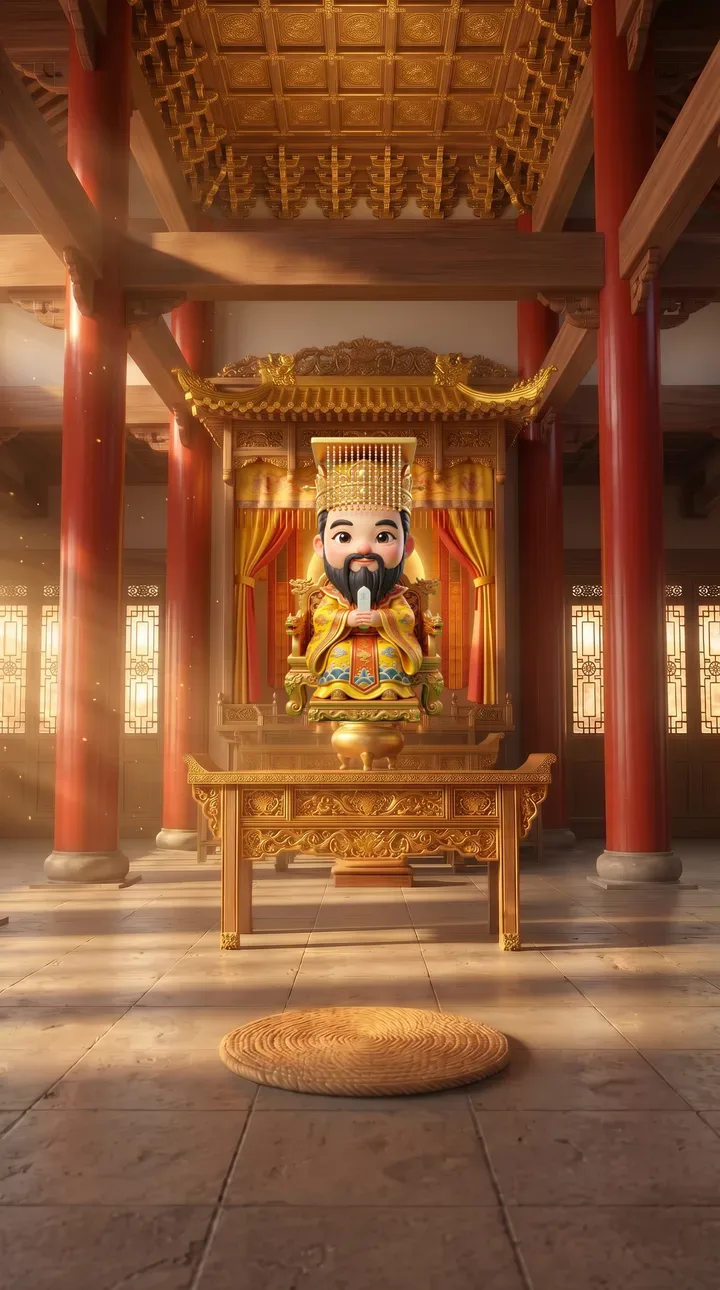
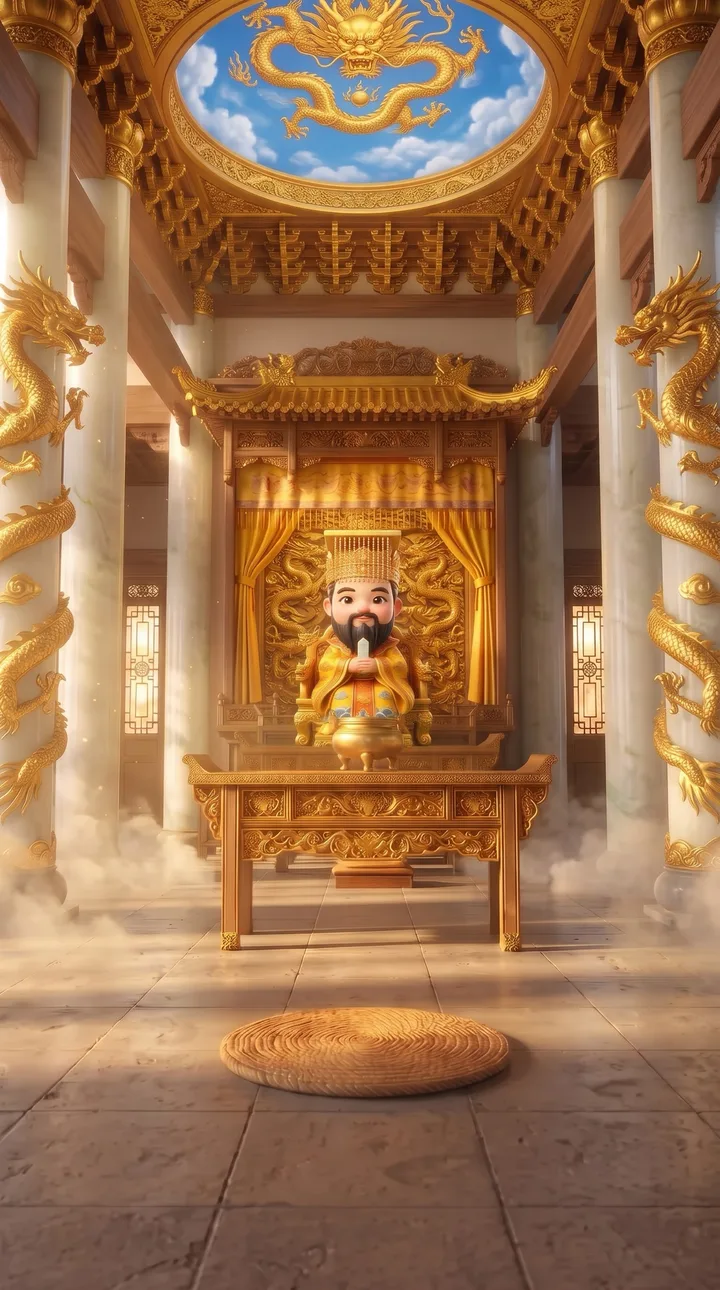
天公殿換上新圖：平日／天公生背景、天公爐、天公金、疏文
香改畫在天公爐後面，看起來插在爐裡；拿掉爐下的木座。

Claude-Session: https://claude.ai/code/session_019aNbR4masPhNK8L9wt7yJP

diff --git a/src/tiangong.js b/src/tiangong.js
@@ -102,16 +102,15 @@ export const TG_SVG = (bg) => `
     ${[0, 1, 2, 3, 4, 5, 6].map((i) => `<path d="M${i * 60 - 30} 645 L${180 + (i - 3) * 22} 520" stroke="#6A5444" stroke-width="1.2" opacity=".5"/>`).join('')}
     <rect x="0" y="500" width="360" height="8" fill="#9A7A60"/>${[20, 70, 120, 240, 290, 340].map((x) => `<rect x="${x - 4}" y="480" width="8" height="40" fill="#A88A70"/>`).join('')}
     <rect x="0" y="480" width="360" height="5" fill="#B89A80"/>
-    <!-- 天公爐（香插進爐口） -->
-    <ellipse cx="${BURN[0]}" cy="${BURN[1] + 80}" rx="86" ry="10" fill="url(#kContact)"/>
-    <rect x="${BURN[0] - 44}" y="${BURN[1] + 66}" width="88" height="22" rx="4" fill="#5A2A1E"/>
-    <g id="kBurner" transform="translate(${BURN[0]} ${BURN[1] + 66})">
-      ${art('burner') ? `<image href="${art('burner')}" x="-90" y="-150" width="180" height="150"/>` : `<g transform="translate(0 -70)">${BURNER_SVG}</g>`}
-    </g>
+    <!-- 天公爐（香插進爐口；香畫在爐子後面，看起來插在爐裡） -->
     <g id="kPlanted" style="display:none">
-      ${[-10, 0, 10].map((dx, i) => `<line x1="${BURN[0] + dx}" y1="${BURN[1] - 6}" x2="${BURN[0] + dx * 2.2}" y2="${BURN[1] - 66}" stroke="#7A3A1A" stroke-width="2.4" stroke-linecap="round"/><circle cx="${BURN[0] + dx * 2.2}" cy="${BURN[1] - 66}" r="2.2" fill="#FF7A3A"/>`).join('')}
+      ${[-10, 0, 10].map((dx) => `<line x1="${BURN[0] + dx}" y1="${BURN[1] - 30}" x2="${BURN[0] + dx * 2.2}" y2="${BURN[1] - 100}" stroke="#7A3A1A" stroke-width="2.4" stroke-linecap="round"/><circle cx="${BURN[0] + dx * 2.2}" cy="${BURN[1] - 100}" r="2.2" fill="#FF7A3A"/>`).join('')}
     </g>
-    <circle id="kRing" cx="${BURN[0]}" cy="${BURN[1] - 6}" r="30" fill="none" stroke="#FFE08A" stroke-width="2.4" stroke-dasharray="6 4" opacity="0"/>
+    <ellipse cx="${BURN[0]}" cy="${BURN[1] + 64}" rx="80" ry="9" fill="url(#kContact)"/>
+    <g id="kBurner" transform="translate(${BURN[0]} ${BURN[1] + 66})">
+      ${art('burner') ? `<image href="${art('burner')}" x="-90" y="-143" width="180" height="143"/>` : `<g transform="translate(0 -70)">${BURNER_SVG}</g>`}
+    </g>
+    <circle id="kRing" cx="${BURN[0]}" cy="${BURN[1] - 40}" r="30" fill="none" stroke="#FFE08A" stroke-width="2.4" stroke-dasharray="6 4" opacity="0"/>
 
     <!-- 三支香 -->
     <g id="kSticks" class="tg-prop" data-tg="sticks" role="button" tabindex="0" aria-label="三支香，插進天公爐" style="display:none" transform="translate(${STICK_REST[0]} ${STICK_REST[1]})">
@@ -121,8 +120,8 @@ export const TG_SVG = (bg) => `
     <!-- 疏文（包在天公金裡） -->
     <g id="kScroll" class="tg-prop" data-tg="scroll" role="button" tabindex="0" aria-label="疏文，往上甩送上天" style="display:none" transform="translate(${SCROLL_REST[0]} ${SCROLL_REST[1]})">
       <ellipse cx="0" cy="2" rx="22" ry="4" fill="url(#kContact)"/>
-      ${art('gold') ? `<image href="${art('gold')}" x="-32" y="-58" width="64" height="58"/>` : `<g transform="translate(0 0)">${SCROLL_SVG}</g>`}
-      ${art('scroll') ? `<image href="${art('scroll')}" x="-14" y="-74" width="28" height="56"/>` : ''}
+      ${art('scroll') ? `<image href="${art('scroll')}" x="-10" y="-74" width="20" height="55" transform="rotate(-8)"/>` : ''}
+      ${art('gold') ? `<image href="${art('gold')}" x="-34" y="-50" width="68" height="50"/>` : `<g transform="translate(0 0)">${SCROLL_SVG}</g>`}
     </g>
 
     <!-- 拜（三拜） -->
@@ -185,18 +184,18 @@ export function initTiangong(api) {
   }
   function smoke() {
     clearInterval(smokeT);
-    smokeT = setInterval(() => { if (mode) emit('smoke', BURN[0] + (Math.random() - .5) * 26, BURN[1] - 68); }, reduce ? 900 : 260);
+    smokeT = setInterval(() => { if (mode) emit('smoke', BURN[0] + (Math.random() - .5) * 30, BURN[1] - 102); }, reduce ? 900 : 260);
   }
 
   /* ----- 敬天：三支香插天公爐，三拜 ----- */
   const sticks = S('kSticks');
   const stickCarrier = makeCarrier({
     svg, el: sticks, sfx, cam, ring: S('kRing'), lift: 70, radius: 34,
-    rest: () => STICK_REST, target: () => [BURN[0], BURN[1] + 6], zoom: () => [BURN[0], BURN[1] - 60, 230],
+    rest: () => STICK_REST, target: () => [BURN[0], BURN[1] - 26], zoom: () => [BURN[0], BURN[1] - 70, 230],
     onTap: () => say('按住右下角的<b>三支香</b>拿起來，插進前面的<b>天公爐</b>。', 'god'),
     onDrop() {
       sticks.style.display = 'none'; S('kPlanted').style.display = ''; smoke();
-      sfx.pop(); sfx.buzz?.(20); burst('spark', BURN[0], BURN[1] - 60, reduce ? 3 : 12);
+      sfx.pop(); sfx.buzz?.(20); burst('spark', BURN[0], BURN[1] - 95, reduce ? 3 : 12);
       bows = 0; S('kBowN').textContent = '0 / 3'; S('kBow').style.display = '';
       say('香插好了。面向天空，按「<b>拜</b>」三下：一拜天、二拜地、三拜自己的良心。', 'god');
       cam?.reset(900);
